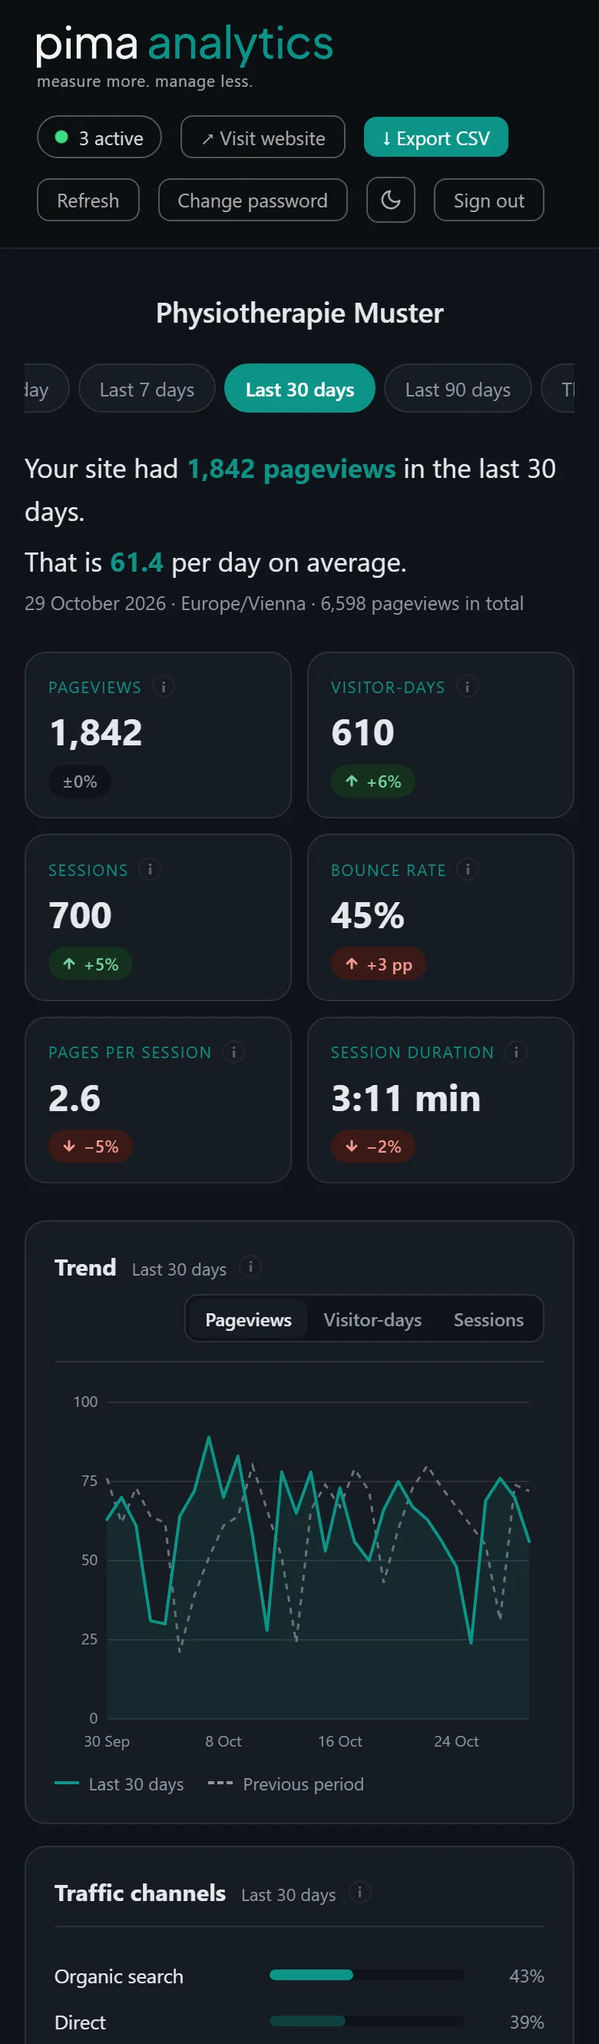
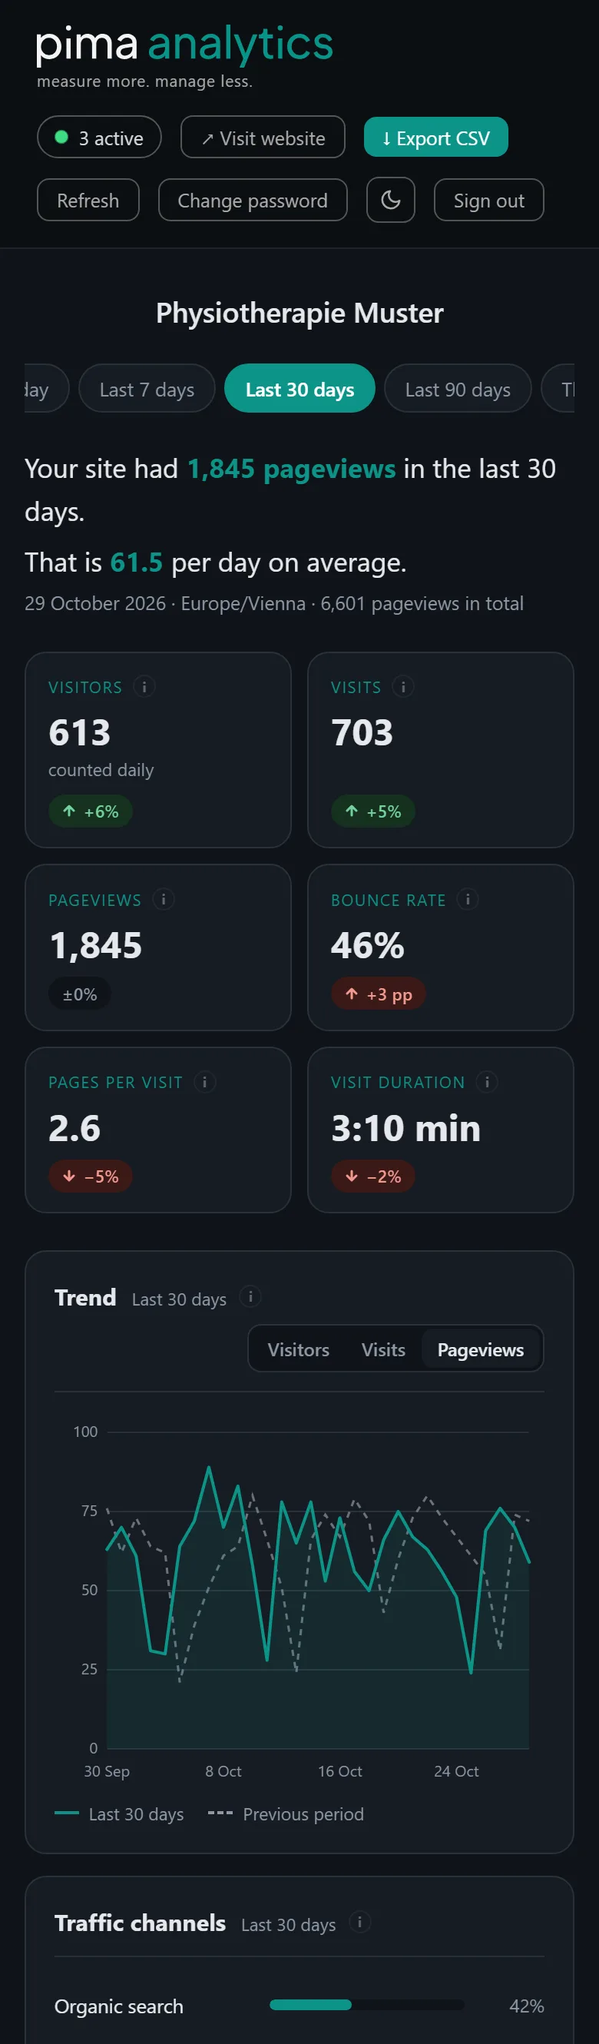
release: 0.6.1 — plainer words for the key figures
- "Sessions" are now "Visits" / "Besuche", with pages per visit, visit
  duration and latest visits to match.
- "Visitor-days" are now "Visitors" / "Besucher", marked "counted daily"
  / "täglich gezählt" for periods longer than a day.
- Key figures start with visitors, visits and pageviews, from people to
  pages; the trend switch follows the same order.
- Every tooltip says what a figure means instead of how it is counted.
  The how stays in the README.
- Comparison pills line up at the bottom of each key-figure tile.
- README and screenshots follow the new wording.

diff --git a/pima.php b/pima.php
@@ -4,7 +4,7 @@
  * URL: example.com/pima
  */
 
-define('PIMA_VERSION', '0.6.0');
+define('PIMA_VERSION', '0.6.1');
 
 require_once __DIR__ . '/pima-core.php';
 date_default_timezone_set(TIMEZONE);
@@ -332,27 +332,26 @@ $strings = [
         'f_lang'           => 'Language',
         'kpi_views'        => 'Pageviews',
         'kpi_visitors'     => 'Visitors',
-        'kpi_visitor_days' => 'Visitor-days',
-        'tip_views'        => 'Compared with the previous period of the same length.',
-        'tip_daily_visitors' => 'Estimated. Repeat pageviews by the same visitor on the same day count once.',
-        'tip_visitor_days' => 'Counted per day: someone who visits on three days counts three times. Visitors are not recognised across days.',
-        'sessions'         => 'Sessions',
+        'counted_daily'    => 'counted daily',
+        'tip_views'        => 'Pages opened on your site.',
+        'tip_visitors'     => 'People who visited your site.',
+        'sessions'         => 'Visits',
         'bounce_rate'      => 'Bounce rate',
-        'views_per_session'=> 'Pages per session',
-        'session_duration' => 'Session duration',
-        'tip_sessions'     => 'Pageviews by the same visitor with no gap longer than 30 minutes. Every session ends at midnight.',
-        'tip_bounce'       => 'Sessions with a single pageview. Lower is better.',
-        'tip_views_per_session' => 'Average pageviews per session.',
-        'tip_duration'     => 'Average time from the first to the last pageview. Single-page sessions count as 0 seconds.',
+        'views_per_session'=> 'Pages per visit',
+        'session_duration' => 'Visit duration',
+        'tip_sessions'     => 'How often people came to your site.',
+        'tip_bounce'       => 'Visits that ended after one page. Lower is better.',
+        'tip_views_per_session' => 'How many pages a visit includes on average.',
+        'tip_duration'     => 'How long a visit lasts on average.',
         'chart_title'      => 'Trend',
         'chart_metric'     => 'Metric',
         'chart_aria'       => 'Line chart for %s compared with the previous period.',
-        'tip_chart'        => 'Dashed: the previous period. A single day is shown by hour.',
+        'tip_chart'        => 'Dashed: the previous period.',
         'top_pages'        => 'Top pages',
         'referrers'        => 'Referrers',
         'entry_pages'      => 'Entry pages',
         'exit_pages'       => 'Exit pages',
-        'session_depth'    => 'Session depth',
+        'session_depth'    => 'Pages per visit',
         'depth_1'          => '1 page',
         'depth_2'          => '2 pages',
         'depth_3'          => '3–4 pages',
@@ -369,14 +368,14 @@ $strings = [
         'ch_organic'       => 'Organic search',
         'ch_social'        => 'Social',
         'ch_referral'      => 'Referral',
-        'tip_channels'     => 'How visitors arrived: directly, via search, social media or another website.',
-        'recent_sessions'  => 'Latest %d sessions',
+        'tip_channels'     => 'How visitors found your site.',
+        'recent_sessions'  => 'Latest %d visits',
         'today_short'      => 'Today',
         'yesterday_short'  => 'Yesterday',
         'pages_count'      => '%d pages',
         'more_pages'       => '+%d more',
         'live_label'       => '%d active',
-        'tip_live'         => 'Visitors in the last 5 minutes. Updates every minute.',
+        'tip_live'         => 'Visitors in the last 5 minutes.',
         'theme_toggle'     => 'Switch between light and dark',
         'show'             => 'Show',
         'hide'             => 'Hide',
@@ -387,7 +386,7 @@ $strings = [
         'no_channels'      => 'No classified entries in this period',
         'no_lang'          => 'No data in this period',
         'no_geo'           => 'Geo disabled or no data',
-        'no_sessions'      => 'No sessions in this period',
+        'no_sessions'      => 'No visits in this period',
         'device_desktop'   => 'Desktop',
         'device_mobile'    => 'Mobile',
         'device_tablet'    => 'Tablet',
@@ -402,16 +401,16 @@ $strings = [
         'clear_btn'        => 'Clear all data',
         'confirm_msg'      => 'Permanently delete all %s entries?',
         'confirm_btn'      => 'Yes, delete everything',
-        'tip_pages'        => 'Change compared with the previous period. Click a row to filter by it.',
-        'tip_referrers'    => 'Websites visitors came from. Counted per entry, not per person.',
-        'tip_entry'        => 'Pages visitors landed on from another website.',
-        'tip_exit'         => 'The last page of each session. The percentage shows how many of the page\'s pageviews ended a session.',
-        'tip_depth'        => 'Sessions by number of pageviews.',
-        'tip_lang'         => 'By visitor-day. Unknown values are excluded.',
-        'tip_tod'          => 'Pageviews per hour in the configured time zone.',
-        'tip_heatmap'      => 'Pageviews per weekday and hour in the configured time zone.',
-        'tip_device'       => 'By visitor-day.',
-        'tip_countries'    => 'By visitor-day. Unknown values are excluded.',
+        'tip_pages'        => 'Your most visited pages and their change from the previous period.',
+        'tip_referrers'    => 'Websites that sent visitors to you.',
+        'tip_entry'        => 'Pages where visitors from other websites arrived.',
+        'tip_exit'         => 'Pages where visits ended, with their exit rate.',
+        'tip_depth'        => 'How many pages visits include.',
+        'tip_lang'         => 'The language of your visitors\' browsers.',
+        'tip_tod'          => 'When your site is visited.',
+        'tip_heatmap'      => 'When your site is visited during the week.',
+        'tip_device'       => 'Devices your visitors use.',
+        'tip_countries'    => 'Where your visitors are.',
         'warn_default_pw'  => 'Sign-in is disabled until a password of your own is set as STATS_PASSWORD in pima-core.php. (Code T8)',
         'password_ph'      => 'Password',
         'login_help'       => 'Forgot your password? Whoever looks after your website can reset it.',
@@ -473,27 +472,26 @@ $strings = [
         'f_lang'           => 'Sprache',
         'kpi_views'        => 'Seitenaufrufe',
         'kpi_visitors'     => 'Besucher',
-        'kpi_visitor_days' => 'Besuchertage',
-        'tip_views'        => 'Verglichen mit der gleich langen Vorperiode.',
-        'tip_daily_visitors' => 'Geschätzt. Mehrere Seitenaufrufe derselben Person am selben Tag zählen einmal.',
-        'tip_visitor_days' => 'Pro Tag gezählt: Wer an drei Tagen kommt, zählt dreifach. Besucher werden über Tage hinweg nicht wiedererkannt.',
-        'sessions'         => 'Sitzungen',
+        'counted_daily'    => 'täglich gezählt',
+        'tip_views'        => 'Aufgerufene Seiten Ihrer Website.',
+        'tip_visitors'     => 'Personen, die Ihre Website besucht haben.',
+        'sessions'         => 'Besuche',
         'bounce_rate'      => 'Absprungrate',
-        'views_per_session'=> 'Seiten pro Sitzung',
-        'session_duration' => 'Sitzungsdauer',
-        'tip_sessions'     => 'Seitenaufrufe derselben Person ohne Pause über 30 Minuten. Um Mitternacht endet jede Sitzung.',
-        'tip_bounce'       => 'Sitzungen mit nur einem Seitenaufruf. Niedriger ist besser.',
-        'tip_views_per_session' => 'Durchschnittliche Seitenaufrufe pro Sitzung.',
-        'tip_duration'     => 'Durchschnittliche Zeit vom ersten bis zum letzten Seitenaufruf. Sitzungen mit einer Seite zählen als 0 Sekunden.',
+        'views_per_session'=> 'Seiten pro Besuch',
+        'session_duration' => 'Besuchsdauer',
+        'tip_sessions'     => 'Wie oft Personen auf Ihre Website kamen.',
+        'tip_bounce'       => 'Besuche, die nach einer Seite endeten. Niedriger ist besser.',
+        'tip_views_per_session' => 'Wie viele Seiten ein Besuch im Schnitt umfasst.',
+        'tip_duration'     => 'Wie lange ein Besuch im Schnitt dauert.',
         'chart_title'      => 'Verlauf',
         'chart_metric'     => 'Kennzahl',
         'chart_aria'       => 'Liniendiagramm für %s im Vergleich zur Vorperiode.',
-        'tip_chart'        => 'Gestrichelt: die Vorperiode. Ein einzelner Tag wird nach Stunden gezeigt.',
+        'tip_chart'        => 'Gestrichelt: die Vorperiode.',
         'top_pages'        => 'Meistbesuchte Seiten',
         'referrers'        => 'Verweisende Websites',
         'entry_pages'      => 'Einstiegsseiten',
         'exit_pages'       => 'Ausstiegsseiten',
-        'session_depth'    => 'Sitzungstiefe',
+        'session_depth'    => 'Seiten pro Besuch',
         'depth_1'          => '1 Seite',
         'depth_2'          => '2 Seiten',
         'depth_3'          => '3–4 Seiten',
@@ -510,14 +508,14 @@ $strings = [
         'ch_organic'       => 'Organische Suche',
         'ch_social'        => 'Social Media',
         'ch_referral'      => 'Verweise',
-        'tip_channels'     => 'Wie Besucher kamen: direkt, über Suche, Social Media oder eine andere Website.',
-        'recent_sessions'  => 'Letzte %d Sitzungen',
+        'tip_channels'     => 'Wie Besucher Ihre Website gefunden haben.',
+        'recent_sessions'  => 'Letzte %d Besuche',
         'today_short'      => 'Heute',
         'yesterday_short'  => 'Gestern',
         'pages_count'      => '%d Seiten',
         'more_pages'       => '+%d weitere',
         'live_label'       => '%d aktiv',
-        'tip_live'         => 'Besucher der letzten 5 Minuten. Aktualisiert sich jede Minute.',
+        'tip_live'         => 'Besucher der letzten 5 Minuten.',
         'theme_toggle'     => 'Zwischen hell und dunkel wechseln',
         'show'             => 'Anzeigen',
         'hide'             => 'Ausblenden',
@@ -528,7 +526,7 @@ $strings = [
         'no_channels'      => 'Keine klassifizierten Einstiege in diesem Zeitraum',
         'no_lang'          => 'Keine Daten in diesem Zeitraum',
         'no_geo'           => 'Geo deaktiviert oder keine Daten',
-        'no_sessions'      => 'Keine Sitzungen in diesem Zeitraum',
+        'no_sessions'      => 'Keine Besuche in diesem Zeitraum',
         'device_desktop'   => 'Desktop',
         'device_mobile'    => 'Mobil',
         'device_tablet'    => 'Tablet',
@@ -543,16 +541,16 @@ $strings = [
         'clear_btn'        => 'Alle Daten löschen',
         'confirm_msg'      => 'Alle %s Einträge endgültig löschen?',
         'confirm_btn'      => 'Ja, alles löschen',
-        'tip_pages'        => 'Änderung gegenüber der Vorperiode. Ein Klick auf eine Zeile filtert danach.',
-        'tip_referrers'    => 'Websites, von denen Besucher kamen. Gezählt pro Einstieg, nicht pro Person.',
-        'tip_entry'        => 'Seiten, auf denen Besucher von einer anderen Website ankamen.',
-        'tip_exit'         => 'Die letzte Seite jeder Sitzung. Der Prozentwert zeigt, wie viele Seitenaufrufe dieser Seite eine Sitzung beendet haben.',
-        'tip_depth'        => 'Sitzungen nach Anzahl der Seitenaufrufe.',
-        'tip_lang'         => 'Nach Besuchertagen. Unbekannte Werte sind ausgeschlossen.',
-        'tip_tod'          => 'Seitenaufrufe pro Stunde in der eingestellten Zeitzone.',
-        'tip_heatmap'      => 'Seitenaufrufe pro Wochentag und Stunde in der eingestellten Zeitzone.',
-        'tip_device'       => 'Nach Besuchertagen.',
-        'tip_countries'    => 'Nach Besuchertagen. Unbekannte Werte sind ausgeschlossen.',
+        'tip_pages'        => 'Ihre meistbesuchten Seiten und die Änderung zur Vorperiode.',
+        'tip_referrers'    => 'Websites, die Besucher zu Ihnen geschickt haben.',
+        'tip_entry'        => 'Seiten, auf denen Besucher von anderen Websites ankamen.',
+        'tip_exit'         => 'Seiten, auf denen Besuche endeten, mit ihrer Ausstiegsrate.',
+        'tip_depth'        => 'Wie viele Seiten Besuche umfassen.',
+        'tip_lang'         => 'Die Browsersprache Ihrer Besucher.',
+        'tip_tod'          => 'Wann Ihre Website besucht wird.',
+        'tip_heatmap'      => 'Wann Ihre Website im Wochenverlauf besucht wird.',
+        'tip_device'       => 'Geräte Ihrer Besucher.',
+        'tip_countries'    => 'Woher Ihre Besucher kommen.',
         'warn_default_pw'  => 'Die Anmeldung ist gesperrt, bis in pima-core.php ein eigenes Passwort als STATS_PASSWORD gesetzt ist. (Code T8)',
         'password_ph'      => 'Passwort',
         'login_help'       => 'Passwort vergessen? Ihre Website-Betreuung kann es zurücksetzen.',
@@ -1293,15 +1291,11 @@ $prev = $stats['prev'];
 $rate = function (array $p, string $part) { return $p['sessions'] > 0 ? $p[$part] / $p['sessions'] : null; };
 $kpis = [
     [
-        'label' => $t['kpi_views'],
-        'value' => dashboardNumber($cur['views'], $lang),
-        'tip'   => $t['tip_views'],
-        'pill'  => growthPill($cur['views'], $prev['views'], 'pct', false, $t, $arrowUp, $arrowDown),
-    ],
-    [
-        'label' => $hourly ? $t['kpi_visitors'] : $t['kpi_visitor_days'],
+        'label' => $t['kpi_visitors'],
         'value' => dashboardNumber($cur['visitors'], $lang),
-        'tip'   => $hourly ? $t['tip_daily_visitors'] : $t['tip_visitor_days'],
+        // Over several days the same person counts once per day.
+        'note'  => $hourly ? '' : $t['counted_daily'],
+        'tip'   => $t['tip_visitors'],
         'pill'  => growthPill($cur['visitors'], $prev['visitors'], 'pct', false, $t, $arrowUp, $arrowDown),
     ],
     [
@@ -1309,6 +1303,12 @@ $kpis = [
         'value' => dashboardNumber($cur['sessions'], $lang),
         'tip'   => $t['tip_sessions'],
         'pill'  => growthPill($cur['sessions'], $prev['sessions'], 'pct', false, $t, $arrowUp, $arrowDown),
+    ],
+    [
+        'label' => $t['kpi_views'],
+        'value' => dashboardNumber($cur['views'], $lang),
+        'tip'   => $t['tip_views'],
+        'pill'  => growthPill($cur['views'], $prev['views'], 'pct', false, $t, $arrowUp, $arrowDown),
     ],
     [
         'label' => $t['bounce_rate'],
@@ -1364,7 +1364,7 @@ $chartData = [
     'labels'   => $chartLabels,
     'cur'      => $chartCurValues,
     'prev'     => array_map('array_values', $chartPrev),
-    'names'    => ['views' => $t['kpi_views'], 'visitors' => $hourly ? $t['kpi_visitors'] : $t['kpi_visitor_days'], 'sessions' => $t['sessions']],
+    'names'    => ['views' => $t['kpi_views'], 'visitors' => $t['kpi_visitors'], 'sessions' => $t['sessions']],
     'curName'  => $rangeLabel,
     'prevName' => $t['prev_period'],
 ];
@@ -1514,13 +1514,14 @@ if ($isLocked) {
 
   .kpi-row { display:grid; grid-template-columns:repeat(6, minmax(0, 1fr)); gap:14px; margin:1rem 0 1.5rem; }
   @media (max-width:1100px) { .kpi-row { grid-template-columns:repeat(3, minmax(0, 1fr)); } }
-  .kpi { background:var(--surface); border:1px solid var(--border); border-radius:14px; padding:1.1rem 1.1rem 1rem; min-width:0; }
+  .kpi { background:var(--surface); border:1px solid var(--border); border-radius:14px; padding:1.1rem 1.1rem 1rem; min-width:0; display:flex; flex-direction:column; }
   .kpi-label { display:flex; align-items:center; gap:.4rem; font-size:.65rem; text-transform:uppercase; letter-spacing:.08em; color:var(--accent); margin-bottom:.5rem; }
   .kpi-value { font-family:var(--font); font-size:1.75rem; font-weight:700; line-height:1.1; white-space:nowrap; }
 
   /* Delta pills */
-  .kpi-delta { display:flex; align-items:center; flex-wrap:wrap; gap:.2rem .4rem; margin-top:.55rem; }
+  .kpi-delta { display:flex; align-items:center; flex-wrap:wrap; gap:.2rem .4rem; margin-top:auto; padding-top:.55rem; }
   .kpi-cmp { font-size:.68rem; color:var(--muted); white-space:nowrap; }
+  .kpi-note { font-size:.72rem; color:var(--muted); margin-top:.25rem; }
   .pill { display:inline-flex; align-items:center; gap:.25rem; padding:.2rem .55rem; border-radius:20px; font-size:.7rem; font-weight:600; white-space:nowrap; }
   .pill.up   { background:var(--good-bg); color:var(--good-text); }
   .pill.down { background:var(--bad-bg); color:var(--bad-text); }
@@ -1858,6 +1859,7 @@ if ($isLocked) {
   <div class="kpi">
     <div class="kpi-label"><?= htmlspecialchars($kpi['label']) ?> <button type="button" class="info-btn" data-tip="<?= htmlspecialchars($kpi['tip']) ?>" aria-label="<?= htmlspecialchars($kpi['tip']) ?>">i</button></div>
     <div class="kpi-value"><?= $kpi['value'] ?></div>
+    <?php if (!empty($kpi['note'])): ?><div class="kpi-note"><?= htmlspecialchars($kpi['note']) ?></div><?php endif; ?>
     <?= $kpi['pill'] ?>
   </div>
   <?php endforeach; ?>
@@ -1867,8 +1869,8 @@ if ($isLocked) {
   <div class="card-head">
     <h2><?= $t['chart_title'] ?> <span class="card-window"><?= htmlspecialchars($rangeLabel) ?></span></h2><button type="button" class="info-btn" data-tip="<?= htmlspecialchars($t['tip_chart']) ?>" aria-label="<?= htmlspecialchars($t['tip_chart']) ?>">i</button>
     <span class="seg" role="group" aria-label="<?= htmlspecialchars($t['chart_metric']) ?>">
-      <?php foreach (['views', 'visitors', 'sessions'] as $i => $metric): ?>
-        <button type="button" data-metric="<?= $metric ?>" aria-pressed="<?= $i === 0 ? 'true' : 'false' ?>"><?= htmlspecialchars($chartData['names'][$metric]) ?></button>
+      <?php foreach (['visitors', 'sessions', 'views'] as $metric): ?>
+        <button type="button" data-metric="<?= $metric ?>" aria-pressed="<?= $metric === 'views' ? 'true' : 'false' ?>"><?= htmlspecialchars($chartData['names'][$metric]) ?></button>
       <?php endforeach; ?>
     </span>
   </div>

diff --git a/README.md b/README.md
@@ -308,20 +308,20 @@ From top to bottom:
 - **Period** — Today, yesterday, last 7, 30 or 90 days, this month or last month. Every panel follows the selected period; the default is the last 30 days
 - **Filters** — Click a page, referrer, country, device or language in any list to narrow the whole dashboard to it. Active filters appear as chips that remove them again
 - **Summary** — Pageviews in the period and the daily average
-- **Key figures** — Pageviews, visitors (visitor-days for periods longer than a day), sessions, bounce rate, pages per session and session duration, each compared with the previous period
-- **Trend** — Line chart of pageviews, visitors or sessions with the previous period as a dashed line; a single day is shown by hour
+- **Key figures** — Visitors, visits and pageviews, then bounce rate, pages per visit and visit duration, each compared with the previous period. For periods longer than a day, visitors are marked "counted daily"
+- **Trend** — Line chart of visitors, visits or pageviews with the previous period as a dashed line; a single day is shown by hour
 - **Traffic channels** — Direct, search, social and referral entries; internal navigation is excluded
-- **Device type** — Desktop / Mobile / Tablet by visitor-day
+- **Device type** — Desktop / Mobile / Tablet, visitors counted daily
 - **Time of day** — Pageviews by hour in the configured `TIMEZONE`
 - **Top pages** — Ranked by page title, with the change against the previous period
 - **Entry pages** — Pages opened with an external referrer
-- **Exit pages** — The last page of each session, with its exit rate
-- **Session depth** — Sessions by number of pageviews
+- **Exit pages** — The last page of each visit, with its exit rate
+- **Pages per visit** — Visits by number of pageviews
 - **Weekday and hour** — Heatmap of pageviews, for periods of 7 days or more
 - **Referrers** — External hosts that generated entries
-- **Countries** — Detected countries by visitor-day
-- **Browser language** — Language distribution by visitor-day
-- **Latest sessions** — Source, page path and duration of the newest sessions (collapsed by default)
+- **Countries** — Detected countries, visitors counted daily
+- **Browser language** — Language distribution, visitors counted daily
+- **Latest visits** — Source, page path and duration of the newest visits (collapsed by default)
 - **Active now** — Visitors of the last 5 minutes in the header, updated every minute
 - **Dark mode** — Follows the system setting; the moon button switches it, and the browser remembers the choice
 - **CSV export** — Download all your data anytime
@@ -332,11 +332,16 @@ including today, compared with the 30 days before. "This month" is compared
 with the same days of the previous month, so a few days are never set against
 a full month.
 
-A session is a run of pageviews with the same daily visitor identifier and no
-gap longer than 30 minutes. Sessions are worked out when the dashboard loads;
-the tracker stores nothing extra for them. With a filter, session figures count
-the sessions that contain at least one matching pageview, and a referrer filter
-keeps every pageview of the visitor-days that arrived from that referrer.
+How the three main figures relate: **visitors** are people, **visits** are the
+times they came, **pageviews** are the pages they opened. A visit is a run of
+pageviews by the same visitor with no gap longer than 30 minutes; visits are
+worked out when the dashboard loads, and the tracker stores nothing extra for
+them. Visitors are recognised only within one day, so over a longer period the
+same person counts once per day ("counted daily").
+
+With a filter, visit figures count the visits that contain at least one
+matching pageview, and a referrer filter keeps every pageview of the visitors
+who arrived from that referrer on that day.
 
 The dashboard works on phones as well:
 
@@ -418,7 +423,7 @@ define('SESSION_IDLE_SECONDS',1800);                                 // Dashboar
 define('SESSION_MAX_SECONDS', 43200);                                // Sign in again after 12 hours at the latest
 define('TRACKER_RATE_LIMIT', 120);                                   // Hits per IP bucket/window
 define('TRACKER_RATE_WINDOW',60);                                    // Rate window in seconds
-define('RECENT_ENTRIES',     50);                                    // Sessions in the latest-sessions list
+define('RECENT_ENTRIES',     50);                                    // Visits in the latest-visits list
 define('ADVANCED_MODE',      false);                                 // Enable danger zone in dashboard
 
 // Optional: override single dashboard strings — see Language
@@ -462,6 +467,10 @@ Disable again by setting it back to `false`.
 An update replaces exactly two files: **`pima.php` and `pima-tracker.php`**. Upload both from the same release. `pima-core.php` (your settings, your `$PIMA_STRINGS`) and `pima-cache/` (your data) are never part of an update, and the tracking snippet stays as it is.
 
 Settings added in a later release take their default automatically, so an update never requires editing `pima-core.php`. The version you run is shown in the dashboard footer.
+
+### To 0.6.1
+
+- **Plainer wording, nothing else.** "Sessions" are now "visits", "visitor-days" are "visitors" marked "counted daily", and the key figures start with visitors, visits and pageviews. Tooltips say what a figure means. `$PIMA_STRINGS` keys `kpi_visitor_days`, `tip_daily_visitors` and `tip_visitor_days` were replaced by `counted_daily` and `tip_visitors`.
 
 ### To 0.6
 
@@ -539,9 +548,9 @@ Geo caching or request/login limits; pima recreates them automatically.
 
 ## Honest limitations
 
-- **Estimated daily visitors only** — pima Analytics derives a daily anonymous identifier from a coarsened IP, the User-Agent and a rotating salt. Shared networks can merge visitors and browser changes can split them, so this is an estimate rather than a person count. The identifier cannot be correlated across days; figures for periods longer than a day are therefore explicitly labelled visitor-days. Returning visitors and an all-time visitor count are deliberately not shown.
-- **Sessions end at midnight** — because the identifier changes every night. Session duration runs from the first to the last pageview, so time on the last page is not measured and single-page sessions count as 0 seconds. A reload counts as a second pageview.
-- **Long periods on busy sites** — sessions are worked out when the dashboard loads, from every pageview of the period and the one before. On a site with very many pageviews, "Last 90 days" takes noticeably longer than the shorter periods.
+- **Estimated daily visitors only** — pima Analytics derives a daily anonymous identifier from a coarsened IP, the User-Agent and a rotating salt. Shared networks can merge visitors and browser changes can split them, so this is an estimate rather than a person count. The identifier cannot be correlated across days; for periods longer than a day the dashboard therefore marks visitors as "counted daily". Returning visitors and an all-time visitor count are deliberately not shown.
+- **Visits end at midnight** — because the identifier changes every night. Visit duration runs from the first to the last pageview, so time on the last page is not measured and single-page visits count as 0 seconds. A reload counts as a second pageview.
+- **Long periods on busy sites** — visits are worked out when the dashboard loads, from every pageview of the period and the one before. On a site with very many pageviews, "Last 90 days" takes noticeably longer than the shorter periods.
 - **Entry-based acquisition** — traffic channels classify page entries, not people. Internal navigation is excluded. Browser reloads can create another entry.
 - **Legacy channel data** — after upgrading, old external referrers remain usable. Old empty referrers cannot be distinguished from internal navigation and are therefore excluded instead of being guessed as direct traffic.
 - **Not for high-traffic sites** — SQLite handles millions of rows comfortably, but concurrent write spikes (500+ simultaneous visitors) may cause brief delays.
